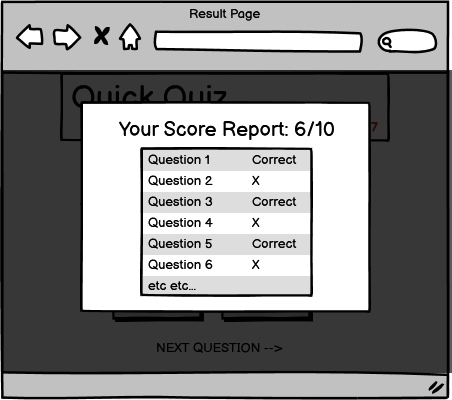
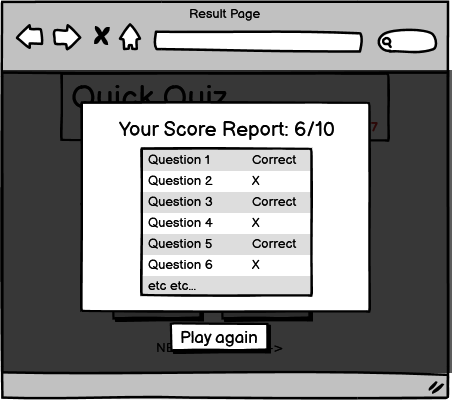
Add wireframe screenshots for README.md file

Changed region(s): [[0.3717, 0.78, 0.6195, 0.9]]

diff --git a/README.md b/README.md
@@ -17,3 +17,20 @@ The following images show wireframes of each of the 3 pages of the site. These w
 
 ### Intro Page
 This is the landing page that first appears when the user loads the website. Some introductory text appears and also a text box underneath that allows the user to enter a username to continue the game, as a personal touch to keep the user engaged. If this box is left blank the user will be assigned the name "Guest".
+
+<img src="https://github.com/kevinjohnkiely/quick-quiz-project-2/blob/main/screenshotsWireframes/Intro%20Page.png">
+
+Click on the Start Quiz button will load the main game page which follows at game.html
+
+### Game Page
+This is the main page of the game that holds all relevant HTML structure and linked JavaScript code that operates the game functionality. The user is welcomed to this page by way of their username appearing at the top bar, and they can begin answering the questions one by one. A right answer results in the clicked answer button turning green, a wrong answer turns the button red. After answering, all buttons will be disabled so that the user can't re-answer the question, but the "Next Question" button remains to allow the user to continue. Also provided is a "Start Over" button if the user wants to begin the game again. 
+
+<img src="https://github.com/kevinjohnkiely/quick-quiz-project-2/blob/main/screenshotsWireframes/Game%20Page.png">
+
+The user continues looping through the questions in this format, until the 10th question. After the final question has been answered, the user is forwarded automatically to a "Quiz Report" pop-up window.
+
+### Result Pop-up Window
+
+This window shows the final score achieved, and a breakdown of the correct and incorrect answers. The user has the option of clicking "Play Again" button to try another quiz.
+
+<img src="https://github.com/kevinjohnkiely/quick-quiz-project-2/blob/main/screenshotsWireframes/Result%20Page.png">
